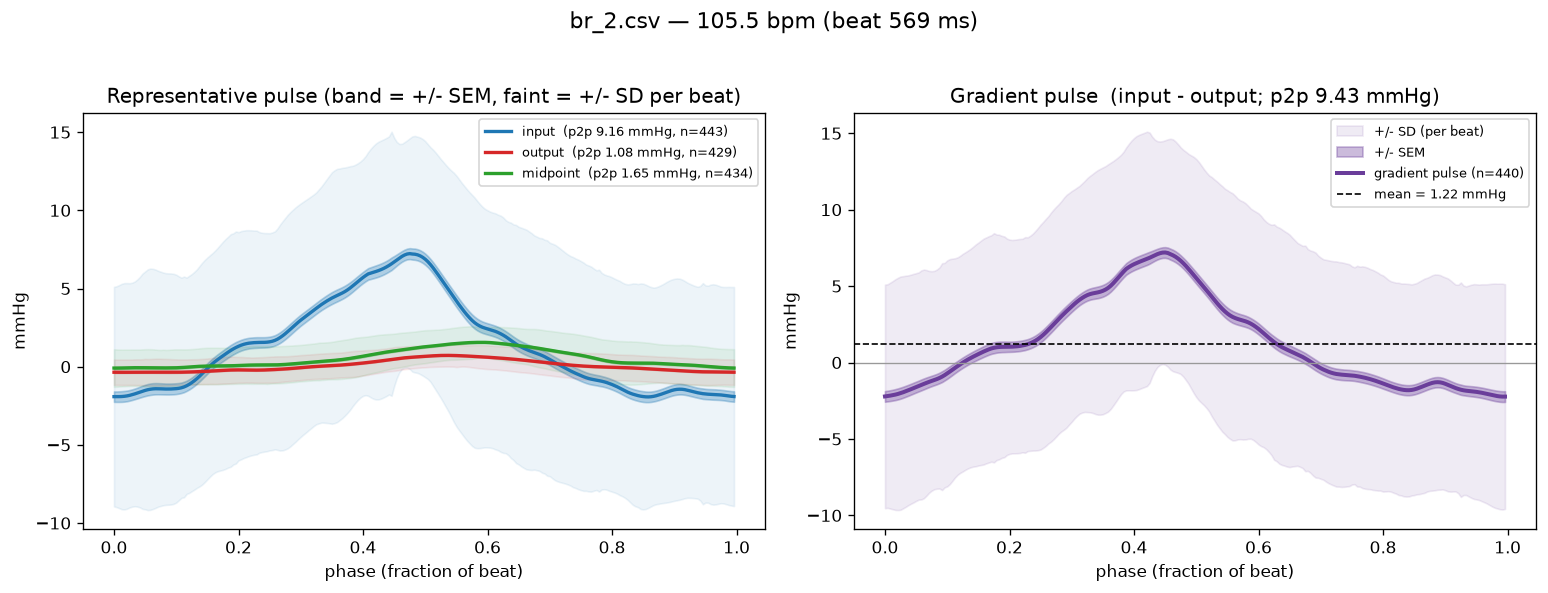
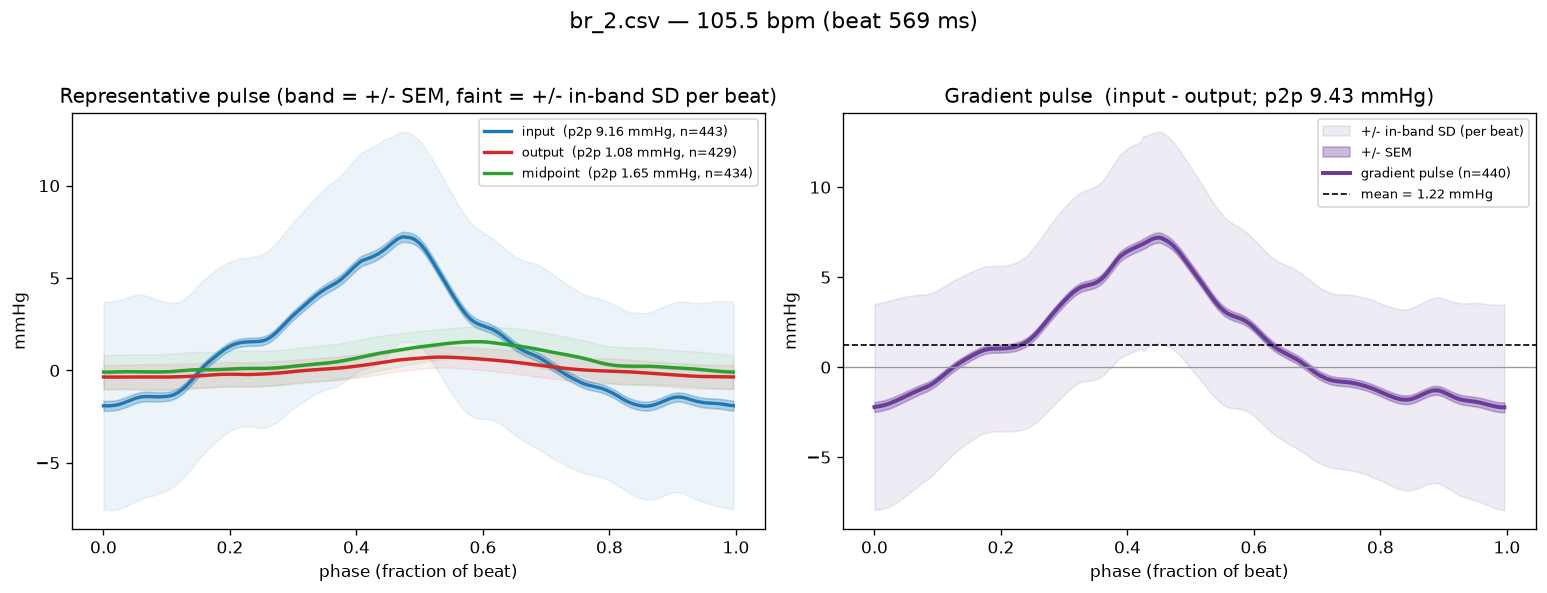
Compute representative-pulse SD/SEM bands from the in-band (smoothed) beats
The uncertainty bands on the representative pulse and gradient pulse were the
pointwise SD of the full-bandwidth beats -- fatter than the pulse itself, and
~50% of that variance is out-of-band vibration the smoothing already discards.

Add representative_pulse(): the mean SHAPE is still ensemble-averaged from the
repaired full-bandwidth signal + phase-domain Savitzky-Golay (ring-free), but the
SD/SEM band and the coherence now come from the band-limited (smoothed) beats, so
the band reflects in-band beat-to-beat scatter (~5 vs ~7.5 mmHg) and coherence
returns to its meaningful in-band value (~20-25%). Mean shape and gradient
amplitude are unchanged. Labels updated to "in-band SD".

Claude-Session: https://claude.ai/code/session_01C8CobvnxomkoKFp8tfAX21

diff --git a/mprls_pressure/pressure.py b/mprls_pressure/pressure.py
@@ -400,6 +400,39 @@ def roll_to_foot(ens: Ensemble) -> Ensemble:
     )
 
 
+def representative_pulse(
+    mean_sig: np.ndarray,
+    band_sig: np.ndarray,
+    fs: float,
+    f0: float,
+    beats: np.ndarray,
+    n_bins: int,
+    smooth_frac: float,
+) -> Tuple[np.ndarray, np.ndarray, np.ndarray, np.ndarray, float, int]:
+    """Assemble a display-ready representative pulse from two signals.
+
+    The **mean shape** is ensemble-averaged from ``mean_sig`` -- the repaired,
+    full-bandwidth signal -- then phase-smoothed (ring-free; see
+    :func:`smooth_template`). The **spread band** (SD, SEM) and the coherence come
+    from ``band_sig`` -- the *band-limited* (low-passed) signal -- so the band
+    reflects in-band beat-to-beat scatter rather than the broadband vibration the
+    smoothing already discards (about half of the full-band SD is out-of-band).
+    Both are aligned to the mean's diastolic foot. Returns
+    ``(phase, template, std, sem, coherence, n_beats)``.
+    """
+    ens_mean = ensemble_average(mean_sig, fs, f0, beats=beats, n_bins=n_bins)
+    ens_band = ensemble_average(band_sig, fs, f0, beats=beats, n_bins=n_bins)
+    phase = ens_mean.phase
+    if ens_mean.n_beats == 0 or not np.isfinite(ens_mean.mean).all():
+        nan = np.full(n_bins, np.nan)
+        return phase, nan, nan, nan, 0.0, 0
+    r = int(-np.argmin(ens_mean.mean)) % n_bins
+    template = smooth_template(np.roll(ens_mean.mean, r), smooth_frac)
+    std = np.roll(ens_band.std, r)
+    sem = np.roll(ens_band.sem, r)
+    return phase, template, std, sem, ens_band.coherence, ens_mean.n_beats
+
+
 # --------------------------------------------------------------------------- #
 # 6. Per-channel assembly
 # --------------------------------------------------------------------------- #
@@ -485,20 +518,20 @@ def analyze_channel(
     smooth = smooth_pressure(cleaned, fs, f0, n_harmonics=n_harmonics)
     if beats is None:
         beats = detect_beats(cleaned, fs, f0)
-    # The representative pulse is ensemble-averaged from the *cleaned* signal, NOT
-    # the low-passed one. Averaging hundreds of beats is itself a strong denoiser
-    # (~sqrt(n_beats)) and, unlike the Butterworth low-pass, it adds no ringing --
-    # low-passing before averaging puts an artefactual overshoot/"notch" on the
-    # sharp systolic peak. `smooth` is kept only for the continuous trace.
-    ens = roll_to_foot(ensemble_average(cleaned, fs, f0, beats=beats, n_bins=n_bins))
-    template = smooth_template(ens.mean, template_smooth_frac)
+    # Representative pulse: mean SHAPE from the cleaned (full-bandwidth) signal --
+    # averaging hundreds of beats denoises without the Butterworth ringing/"notch"
+    # a low-pass leaves on the systolic peak -- while the SPREAD band (SD/SEM) and
+    # coherence come from the band-limited `smooth` signal, so they reflect in-band
+    # beat-to-beat scatter rather than the broadband vibration we already discard.
+    phase, template, tstd, tsem, coh, nb = representative_pulse(
+        cleaned, smooth, fs, f0, beats, n_bins, template_smooth_frac)
 
     return ChannelResult(
         name=name, fs=fs, t=tu, raw=raw, cleaned=cleaned, smooth=smooth,
         f0=f0, bpm=f0 * 60.0, spectral_snr=snr,
         n_dropouts=int(nan_mask.sum()), n_spikes=int(spike_mask.sum()),
-        beats=beats, phase=ens.phase, template=template, template_std=ens.std,
-        template_sem=ens.sem, n_beats=ens.n_beats, coherence=ens.coherence,
+        beats=beats, phase=phase, template=template, template_std=tstd,
+        template_sem=tsem, n_beats=nb, coherence=coh,
         cutoff_hz=n_harmonics * f0,
     )
 
@@ -580,21 +613,22 @@ def pressure_gradient(
     t = a.t[:n]
     grad = a.smooth[:n] - b.smooth[:n]              # continuous trace (display, mean)
 
-    # Representative gradient pulse: ensemble-average the *cleaned* difference (no
-    # low-pass) so the template carries no filter ringing (see analyze_channel).
+    # Representative gradient pulse: mean SHAPE from the cleaned (full-bandwidth)
+    # difference (ring-free), spread band from the band-limited difference `grad`
+    # (in-band scatter). See representative_pulse / analyze_channel.
     grad_clean = a.cleaned[:n] - b.cleaned[:n]
     beats_g = detect_beats(grad_clean, a.fs, a.f0)
-    ens = roll_to_foot(ensemble_average(grad_clean, a.fs, a.f0, beats=beats_g, n_bins=n_bins))
-    gradient_template = smooth_template(ens.mean, DEFAULT_TEMPLATE_SMOOTH_FRAC)
-    pulsatile = (float(np.nanmax(gradient_template) - np.nanmin(gradient_template))
-                 if ens.n_beats else float("nan"))
+    phase, gtemplate, gstd, gsem, _, nb = representative_pulse(
+        grad_clean, grad, a.fs, a.f0, beats_g, n_bins, DEFAULT_TEMPLATE_SMOOTH_FRAC)
+    pulsatile = (float(np.nanmax(gtemplate) - np.nanmin(gtemplate))
+                 if nb else float("nan"))
 
     return GradientResult(
         a_name=a.name, b_name=b.name, fs=a.fs, t=t, gradient=grad,
-        phase=ens.phase, gradient_template=gradient_template,
-        gradient_template_std=ens.std, gradient_template_sem=ens.sem,
+        phase=phase, gradient_template=gtemplate,
+        gradient_template_std=gstd, gradient_template_sem=gsem,
         mean_gradient=float(np.mean(grad)),
-        pulsatile_amplitude=pulsatile, f0=a.f0, n_beats=ens.n_beats,
+        pulsatile_amplitude=pulsatile, f0=a.f0, n_beats=nb,
         cross_coherence_f0=cross_coherence(a, b, a.f0),
     )
 
@@ -799,7 +833,7 @@ def plot_analysis(analysis: PressureAnalysis, output_path, *, zoom_s: float = 6.
                             ch.template + ch.template_sem, color=colors[name], alpha=0.30)
             ax.plot(ch.phase, ch.template, color=colors[name], lw=1.8,
                     label=f"{name} (coh {ch.coherence*100:.0f}%, n={ch.n_beats})")
-    ax.set_title("representative pulse (band +/- SEM, faint +/- SD; each on own foot)")
+    ax.set_title("representative pulse (band +/- SEM, faint +/- in-band SD; own foot)")
     ax.set_xlabel("phase (fraction of beat)"); ax.set_ylabel("mmHg"); ax.legend(fontsize=7)
 
     # (2,0) instantaneous gradient, zoomed
@@ -819,7 +853,7 @@ def plot_analysis(analysis: PressureAnalysis, output_path, *, zoom_s: float = 6.
         gt = grad.gradient_template
         ax.fill_between(grad.phase, gt - grad.gradient_template_std,
                         gt + grad.gradient_template_std, color="#6a3d9a",
-                        alpha=0.10, label="+/- SD (per beat)")
+                        alpha=0.10, label="+/- in-band SD (per beat)")
         ax.fill_between(grad.phase, gt - grad.gradient_template_sem,
                         gt + grad.gradient_template_sem, color="#6a3d9a", alpha=0.35,
                         label="+/- SEM")
@@ -869,7 +903,7 @@ def plot_pulses(analysis: PressureAnalysis, output_path, *, title: Optional[str]
                              ch.template + ch.template_sem, color=colors[name], alpha=0.30)
             axL.plot(ch.phase, ch.template, color=colors[name], lw=2.0,
                      label=f"{name}  (p2p {ch.pulse_amplitude:.2f} mmHg, n={ch.n_beats})")
-    axL.set_title("Representative pulse (band = +/- SEM, faint = +/- SD per beat)")
+    axL.set_title("Representative pulse (band = +/- SEM, faint = +/- in-band SD per beat)")
     axL.set_xlabel("phase (fraction of beat)"); axL.set_ylabel("mmHg")
     axL.legend(fontsize=8, loc="upper right")
 
@@ -878,7 +912,7 @@ def plot_pulses(analysis: PressureAnalysis, output_path, *, title: Optional[str]
         gt = grad.gradient_template
         axR.fill_between(grad.phase, gt - grad.gradient_template_std,
                          gt + grad.gradient_template_std, color="#6a3d9a", alpha=0.10,
-                         label="+/- SD (per beat)")
+                         label="+/- in-band SD (per beat)")
         axR.fill_between(grad.phase, gt - grad.gradient_template_sem,
                          gt + grad.gradient_template_sem, color="#6a3d9a", alpha=0.35,
                          label="+/- SEM")

diff --git a/mprls_pressure/README.md b/mprls_pressure/README.md
@@ -145,8 +145,12 @@ figure (`br_2_analysis.png`), and the three `*_summary.txt`.
   (rejects per-channel modulation sidebands).
 * **Repair** — linear dropout interpolation; Hampel (median/MAD) spike rejection.
 * **Continuous smoothing** — zero-phase Butterworth low-pass at `n_harmonics·f0`.
-* **Representative pulse** — ensemble average of the repaired signal + phase-domain
-  Savitzky-Golay (ring-free); SEM shows how well the mean pulse is determined.
+* **Representative pulse** — mean *shape* from the ensemble average of the repaired
+  signal + phase-domain Savitzky-Golay (ring-free). The bands are the **SEM** (how
+  well the mean pulse is determined — a thin ribbon over hundreds of beats) and the
+  faint **in-band SD** (beat-to-beat scatter of the *band-limited* beats; the SD of
+  the full-bandwidth beats is ~2× wider but ~half of it is out-of-band vibration
+  the smoothing already discards, so it is not shown).
 * **Gradient** — instantaneous difference; representative gradient pulse from a
   self-referential ensemble average of `g(t)`.
 * **Independent cross-check (optional)** — the sibling `pulsatility` tool extracts
